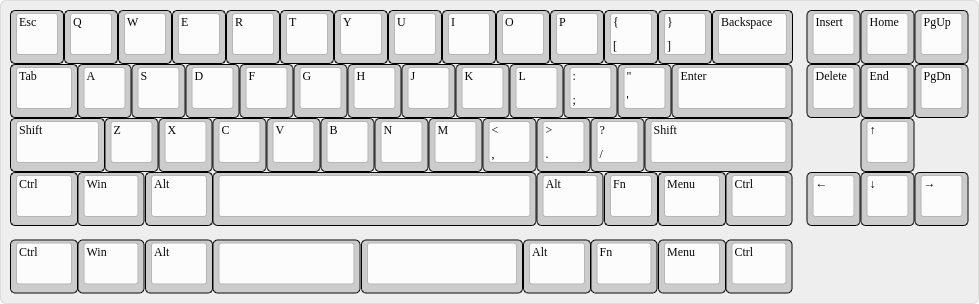
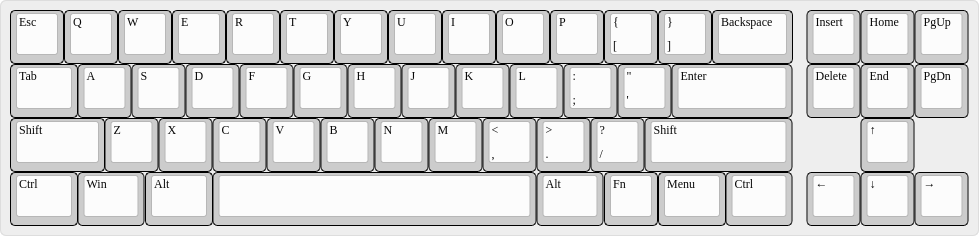
Separate images and layout files for the XTKL 59

diff --git a/XTKL.md b/XTKL.md
@@ -45,8 +45,7 @@ More or less the generic ANSI TKL layout, but
 * The second and third top-most rows of the MF-II block are moved one
   row toward the bottom.
 * Left-most column key widths like a 40% keyboard and some bottom row
-  optimizations, probably allowing a split spacebar (3u + 2.75u) and
-  single spacebar (6u) design.
+  optimizations with a 6u spacebar.
   
 You could also describe it as 40% or 50% keyboard with all columns of
 a TKL keyboard.
@@ -57,3 +56,21 @@ Backspace/Enter/RShift column has been left untouched.
 ![XTKL 57](Images/XTKL-57.png)
 
 [layout in JSON format](Layouts/XTKL-57.json)
+
+### XTKL 59
+
+Based on the XTKL 57, it has been modified to sport a split spacebar
+(3u + 2.75u) and fitted in a Pipe/Backslash key. I'm though still
+unsure where, hence there are two variants currently:
+
+#### XTKL 59a
+
+![XTKL 59a](Images/XTKL-59a.png)
+
+[layout in JSON format](Layouts/XTKL-59a.json)
+
+#### XTKL 59b
+
+![XTKL 59b](Images/XTKL-59b.png)
+
+[layout in JSON format](Layouts/XTKL-59b.json)
